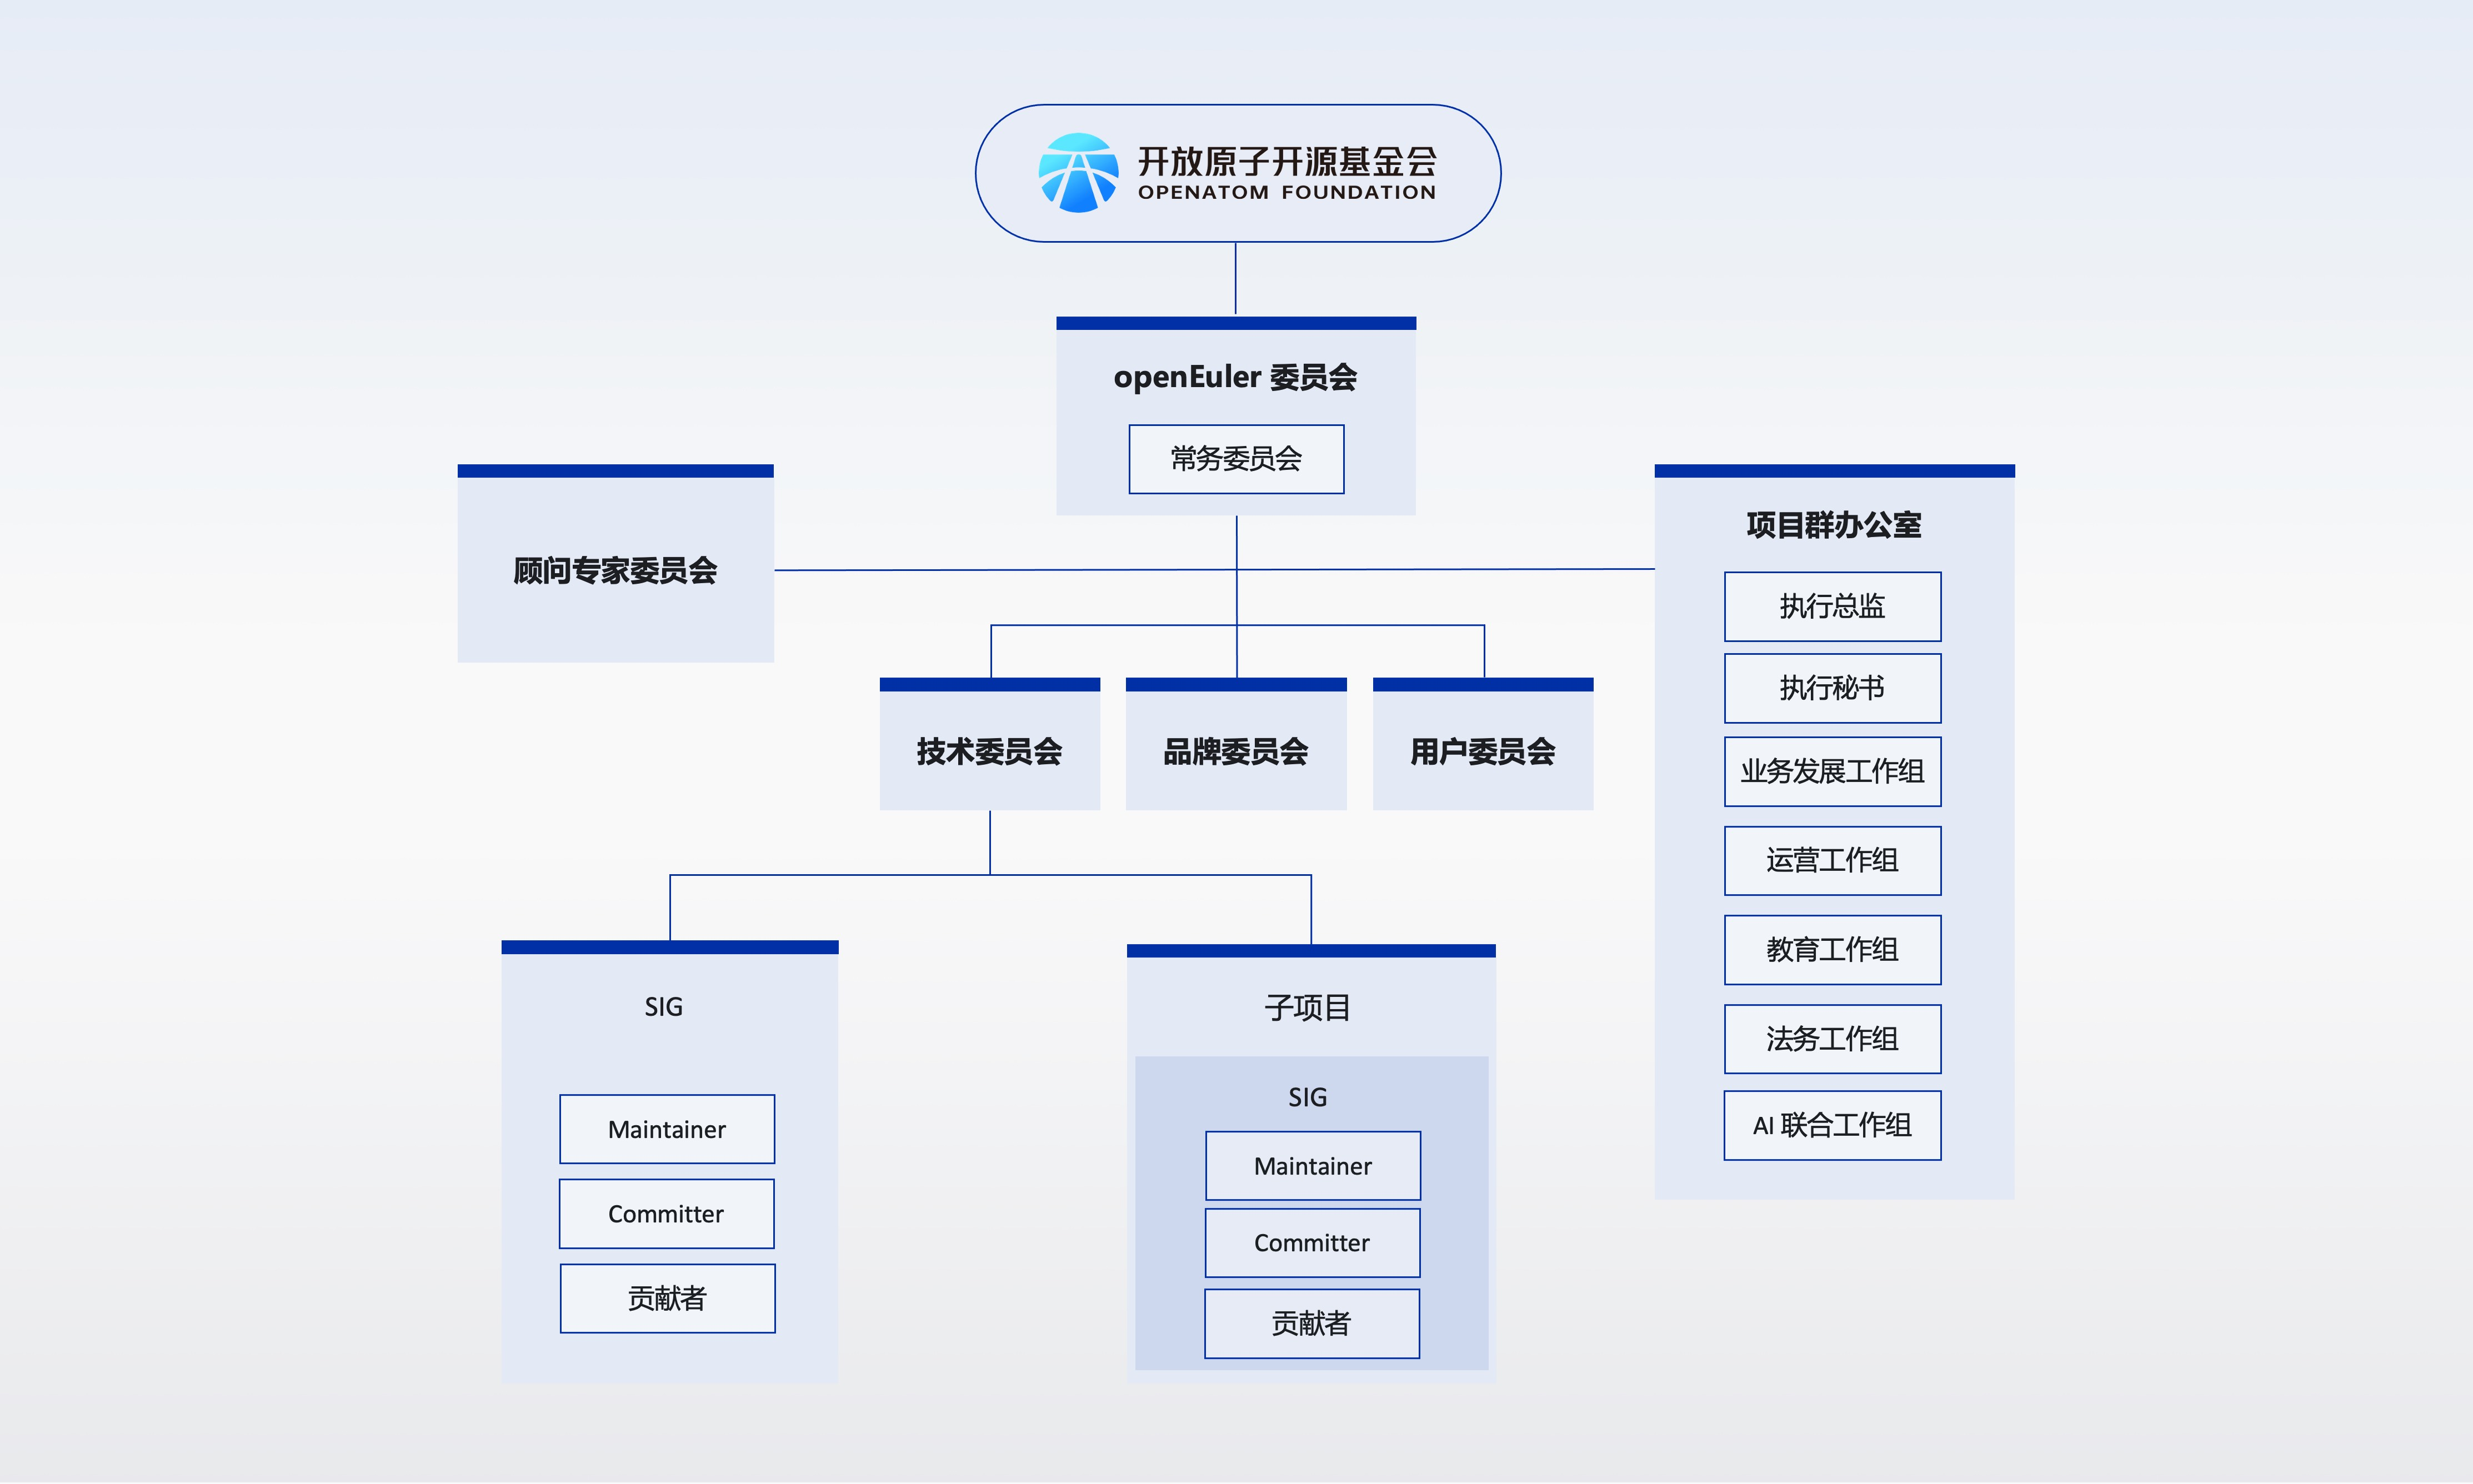
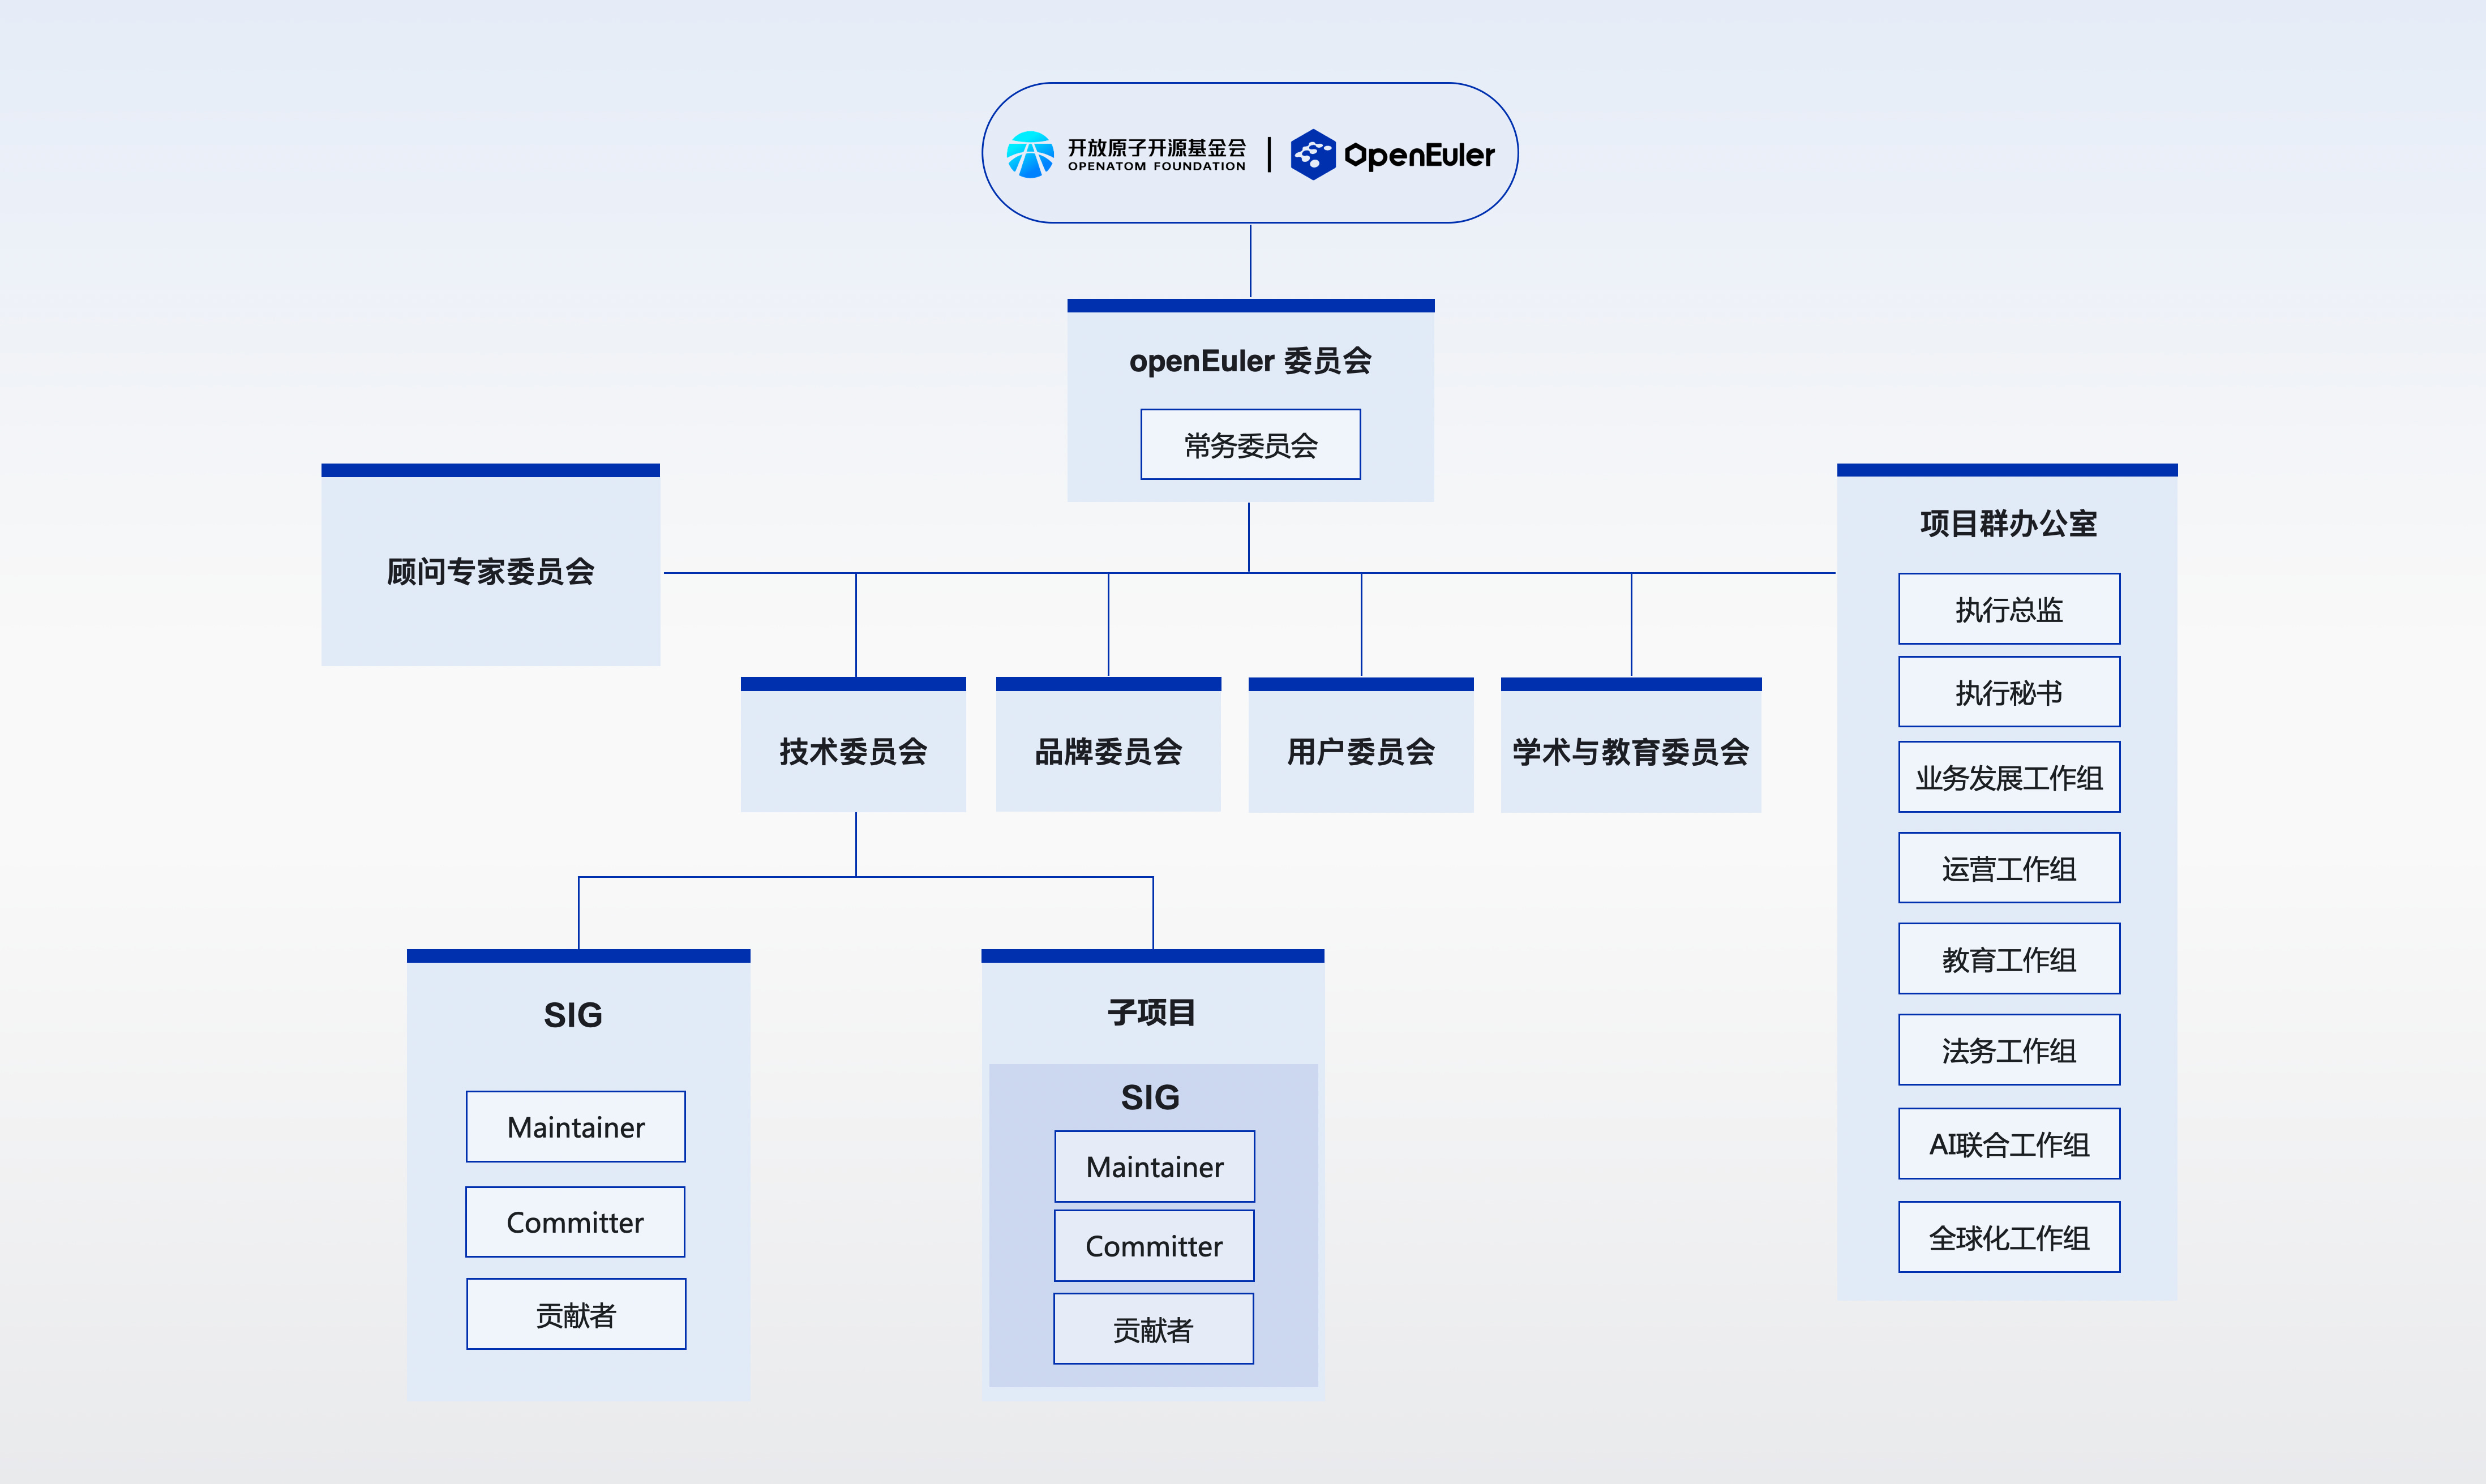
feat: 更新组织架构&活动日历

diff --git a/app/.vitepress/src/data/about-us/organization.ts b/app/.vitepress/src/data/about-us/organization.ts
@@ -12,6 +12,7 @@ import zhongxin from '@/assets/category/organization/zhongxin.png';
 import xiongwei from '@/assets/category/organization/xiongwei.png';
 import huzhengce from '@/assets/category/organization/huzhengce.png';
 import yuli from '@/assets/category/organization/yuli.png';
+import liufei from '@/assets/category/organization/liufei.png';
 
 // 技术委员会
 import huxinwei from '@/assets/category/organization/technical/huxinwei.png';
@@ -60,6 +61,7 @@ import wendan from '@/assets/category/organization/brand/wendan.png';
 import humingyue from '@/assets/category/organization/brand/humingyu.png';
 import pengyaying from '@/assets/category/organization/brand/pengyaying.png';
 import xuyanli from '@/assets/category/organization/brand/xuyanli.png';
+import liwei from '@/assets/category/organization/brand/liwei.png';
 
 // 用户委员会
 import gaohonghe from '@/assets/category/organization/user/gaohonghe.png';
@@ -288,8 +290,8 @@ export default {
             title: '执行总监',
             personalList: [
               {
-                img: huzhengce,
-                name: '胡正策',
+                img: liufei,
+                name: '刘飞',
                 position: ['华为技术有限公司'],
               },
             ],
@@ -522,6 +524,12 @@ export default {
             email: '[email redacted]',
           },
           {
+            img: liwei,
+            name: '李伟',
+            position: ['委员'],
+            email: '[email redacted]',
+          },
+          {
             img: lizhenning,
             name: '李震宁',
             position: ['委员'],
@@ -615,6 +623,12 @@ export default {
             name: '李荣青',
             position: ['委员'],
             email: '[email redacted]',
+          },
+          {
+            img: liwei,
+            name: '李伟',
+            position: ['委员'],
+            email: '[email redacted]',
           },
           {
             img: rongtao,
@@ -760,11 +774,16 @@ export default {
       {
         title: 'openEuler 全球化工作组',
         list: [
-          { img: zhounan, name: '周楠', position: ['组长'] },
-          { img: caijuanyang, name: '蔡镌洋', position: ['组员'] },
-          { img: lichengpeng_globalization, name: '李成鹏', position: ['组员'] },
-          { img: liumingjie_globalization, name: '刘明杰', position: ['组员'] },
-          { img: renzidong, name: '任紫东', position: ['组员'] },
+          [
+            { img: zhounan, name: '周楠', position: ['组长'] },
+            { img: caijuanyang, name: '蔡镌洋', position: ['组员'] },
+            { img: lichengpeng_globalization, name: '李成鹏', position: ['组员'] },
+            { img: liumingjie_globalization, name: '刘明杰', position: ['组员'] },
+            { img: renzidong, name: '任紫东', position: ['组员'] },
+          ],
+          [
+            { img: huzhengce, name: '胡正策', position: ['开源欧拉全球生态官'] },
+          ]
         ],
       },
     ],
@@ -924,8 +943,8 @@ export default {
             title: 'Executive Director',
             personalList: [
               {
-                img: huzhengce,
-                name: 'Hu Zhengce',
+                img: liufei,
+                name: 'Liu Fei',
                 position: ['Huawei Technologies Co., Ltd.'],
               },
             ],
@@ -1158,6 +1177,12 @@ export default {
             email: '[email redacted]',
           },
           {
+            img: liwei,
+            name: 'Li Wei',
+            position: ['Committee member'],
+            email: '[email redacted]',
+          },
+          {
             img: lizhenning,
             name: 'Li Zhenning',
             position: ['Committee member'],
@@ -1251,6 +1276,12 @@ export default {
             name: 'Li Rongqing',
             position: ['Committee member'],
             email: '[email redacted]',
+          },
+          {
+            img: liwei,
+            name: 'Li Wei',
+            position: ['Committee member'],
+            email: '[email redacted]',
           },
           {
             img: rongtao,
@@ -1396,11 +1427,16 @@ export default {
       {
         title: 'openEuler Globalization Working Group',
         list: [
-          { img: zhounan, name: 'Zhou Nan', position: ['Lead'] },
-          { img: caijuanyang, name: 'Cai Juanyang', position: ['Member'] },
-          { img: lichengpeng_globalization, name: 'Li Chengpeng', position: ['Member'] },
-          { img: liumingjie_globalization, name: 'Liu Mingjie', position: ['Member'] },
-          { img: renzidong, name: 'Ren Zidong', position: ['Member'] },
+          [
+            { img: zhounan, name: 'Zhou Nan', position: ['Lead'] },
+            { img: caijuanyang, name: 'Cai Juanyang', position: ['Member'] },
+            { img: lichengpeng_globalization, name: 'Li Chengpeng', position: ['Member'] },
+            { img: liumingjie_globalization, name: 'Liu Mingjie', position: ['Member'] },
+            { img: renzidong, name: 'Ren Zidong', position: ['Member'] },
+          ],
+          [
+            { img: huzhengce, name: 'Hu Zhengce', position: ['openEuler Global Advocate'] },
+          ]
         ],
       },
     ],

diff --git a/app/.vitepress/src-new/data/activity/plan.ts b/app/.vitepress/src-new/data/activity/plan.ts
@@ -52,12 +52,6 @@ export const yearPlanData = {
         },
         { 
           month: '4',
-          actives: [
-            {
-              location: '沙特 利雅得',
-              activeName: '2026中国沙特AI科技及信息技术展',
-            },
-          ],
         },
         {
           month: '5',
@@ -91,7 +85,7 @@ export const yearPlanData = {
           month: '9',
           actives: [
             {
-              location: 'TBD',
+              location: '中国 上海',
               activeName: 'KubeCON + CloudNativeCon China',
             },
             {
@@ -104,7 +98,7 @@ export const yearPlanData = {
           month: '10',
           actives: [
             {
-              location: 'TBD',
+              location: '捷克 布拉格',
               activeName: 'Open Source Summit Europe 2026',
             },
           ],
@@ -149,17 +143,17 @@ export const yearPlanData = {
             },
           ],
         },
-        { month: '4' },
-        { month: '5' },
         { 
-          month: '6',
+          month: '4',
           actives: [
             {
-              location: 'TBD',
+              location: '中国 长沙',
               activeName: 'openEuler Developer Day 2026',
             },
           ],
         },
+        { month: '5' },
+        { month: '6' },
         { month: '7' },
         { month: '8' },
         { month: '9' },
@@ -202,7 +196,23 @@ export const yearPlanData = {
         },
         { month: '2' },
         { month: '3' },
-        { month: '4' },
+        { 
+          month: '4',
+          actives: [
+            {
+              location: '中国 成都',
+              activeName: 'openEuler SIG-Sbom Meetup',
+            },
+            {
+              location: '中国 青岛',
+              activeName: 'openEuler 云原生 Meetup',
+            },
+            {
+              location: '新加坡',
+              activeName: 'Free and Open Source Singapore & openEuler Meetup',
+            },
+          ],
+        },
         { month: '5' },
         { month: '6' },
         { month: '7' },
@@ -304,15 +314,7 @@ export const yearPlanData = {
             },
           ],
         },
-        { 
-          month: '4',
-          actives: [
-            {
-              location: 'Riyadh Exhibition & Convention Center, Malham',
-              activeName: 'LEAP 2026',
-            },
-          ],
-        },
+        { month: '4' },
         {
           month: '5',
           actives: [
@@ -345,7 +347,7 @@ export const yearPlanData = {
           month: '9',
           actives: [
             {
-              location: 'TBD',
+              location: 'Shanghai, China',
               activeName: 'KubeCON + CloudNativeCon China',
             },
             {
@@ -358,7 +360,7 @@ export const yearPlanData = {
           month: '10',
           actives: [
             {
-              location: 'TBD',
+              location: 'Prague, Czech Republic',
               activeName: 'Open Source Summit Europe 2026',
             },
           ],
@@ -403,17 +405,17 @@ export const yearPlanData = {
             },
           ],
         },
-        { month: '4' },
-        { month: '5' },
         { 
-          month: '6',
+          month: '4',
           actives: [
             {
-              location: 'TBD',
+              location: 'Changsha, China',
               activeName: 'openEuler Developer Day 2026',
             },
           ],
         },
+        { month: '5' },
+        { month: '6' },
         { month: '7' },
         { month: '8' },
         { month: '9' },

diff --git a/app/.vitepress/src/views/organization/OrganizationGuests.vue b/app/.vitepress/src/views/organization/OrganizationGuests.vue
@@ -123,6 +123,13 @@ onMounted(() => {
     }
   }
 }
+.council-lis + .council-lis {
+  margin-top: 32px;
+
+  @media (max-width: 780px) {
+    margin-top: 16px;
+  }
+}
 .council-lis {
   width: 100%;
   display: grid;

diff --git a/app/.vitepress/src/views/organization/TheOrganization.vue b/app/.vitepress/src/views/organization/TheOrganization.vue
@@ -87,7 +87,9 @@ const organizationData: any = computed(() => {
       </h2>
       <div class="council-list">
         <OrganizationGuests
-          :lecturer-list="groupInfo.list"
+          v-for="(item, idx) in (Array.isArray(groupInfo.list[0]) ? groupInfo.list : [groupInfo.list])"
+          :key="idx"
+          :lecturer-list="item"
           shape="circle"
           :web-columns-num="6"
           :mobile-columns-num="2"